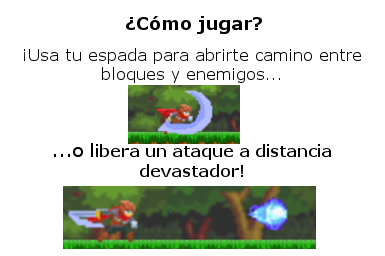
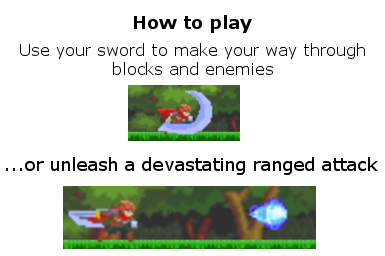
English

Changed region(s): [[0.0312, 0.0625, 0.9662, 0.3125], [0.0312, 0.5312, 0.9974, 0.6875]]

diff --git a/app/src/main/assets/www/src/layers/MenuLayer.js b/app/src/main/assets/www/src/layers/MenuLayer.js
@@ -15,9 +15,7 @@ class MenuLayer extends Layer {
         this.mensajesAyuda.push(new Boton(imagenes.mensaje_como_jugar_0, canvasInitialWidth/2, canvasInitialHeight/2));
         this.mensajesAyuda.push(new Boton(imagenes.mensaje_como_jugar_1, canvasInitialWidth/2, canvasInitialHeight/2));
         this.mensajesAyuda.push(new Boton(imagenes.mensaje_como_jugar_2, canvasInitialWidth/2, canvasInitialHeight/2));
-        this.mensajesAyuda.push(new Boton(imagenes.mensaje_como_jugar_3, canvasInitialWidth/2, canvasInitialHeight/2));
         this.mensajesAyuda.push(new Boton(imagenes.mensaje_como_jugar_4, canvasInitialWidth/2, canvasInitialHeight/2));
-        this.mensajesAyuda.push(new Boton(imagenes.mensaje_como_jugar_5, canvasInitialWidth/2, canvasInitialHeight/2));
         this.mensajesAyuda.push(new Boton(imagenes.mensaje_creditos, canvasInitialWidth/2, canvasInitialHeight/2));
 
         this.botonesEspadas = [];

diff --git a/app/src/main/assets/www/src/Globales.js b/app/src/main/assets/www/src/Globales.js
@@ -37,11 +37,11 @@ var saltoMuelle = -14;
 // espada
 var numeroDeEspadas = 5;
 var espadaEquipada = imagenes.espada_0;
-var descripcionesEspadas = ["Una espada metálica simple, sin nada que destacar",
-    "Su brillo te da vitalidad, aguanta un toque contra un enemigo sin morir",
-    "Una hoja sedienta de sangre, tus ataques se verán mejorados aleatoriamente",
-    "El místico azul aumenta tu capacidad de atacar a distancia",
-    "Un grácil estoque para moverse con mayor soltura"];
+var descripcionesEspadas = ["Just a simple steel sword with nothing in particular",
+    "Its brightness gives you vitality, resist an additional attack without dying",
+    "Its bloodlust edge will randomly grant you powered up attacks",
+    "The mystic blue coming from the blade increases your range attacks ammo",
+    "A swift rapier that allows quicker maneuvers"];
 
 // jugador
 var margenYChoque = 28;

diff --git a/app/src/main/assets/www/src/Res.js b/app/src/main/assets/www/src/Res.js
@@ -44,9 +44,7 @@ var imagenes = {
     mensaje_como_jugar_0 : "res/Assets/Menu/Ayuda/mensaje_como_jugar_0.png",
     mensaje_como_jugar_1 : "res/Assets/Menu/Ayuda/mensaje_como_jugar_1.png",
     mensaje_como_jugar_2 : "res/Assets/Menu/Ayuda/mensaje_como_jugar_2.png",
-    mensaje_como_jugar_3 : "res/Assets/Menu/Ayuda/mensaje_como_jugar_3.png",
     mensaje_como_jugar_4 : "res/Assets/Menu/Ayuda/mensaje_como_jugar_4.png",
-    mensaje_como_jugar_5 : "res/Assets/Menu/Ayuda/mensaje_como_jugar_5.png",
     mensaje_creditos : "res/Assets/Menu/Ayuda/creditos.png",
     mensaje_ganar : "res/Assets/Menu/mensaje_ganar.png",
     mensaje_perder : "res/Assets/Menu/mensaje_perder.png",
